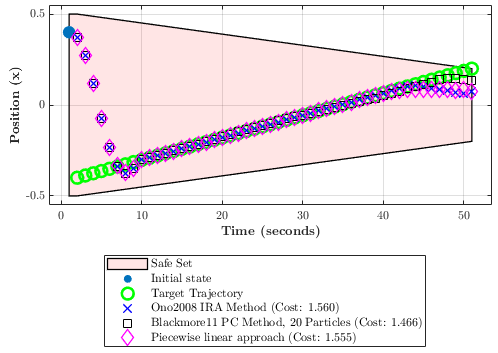
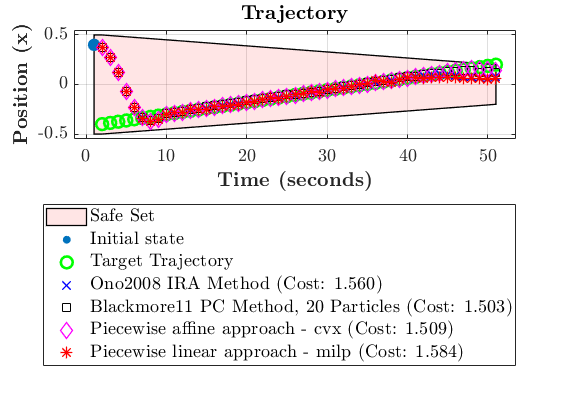
Added more figures to present.

diff --git a/Figure3.m b/Figure3.m
@@ -113,8 +113,8 @@
 
     %% Plotting trajectories of each method: 
 
-        plot_markersize = 9;
-        plot_fontSize = 9;
+        plot_markersize = 16;
+        plot_fontSize = 14;
         fig3 = figure(1);
         clf
         hold on
@@ -123,21 +123,21 @@
         h3 = scatter(x0(1),x0(2),10*plot_markersize,'go','filled');
         h4 = scatter([x0(1); ono_opt_mean_X(1:4:end)],...
                     [x0(2); ono_opt_mean_X(2:4:end)],...
-                    30, 'bx');
+                    10*plot_markersize, 'bx');
         h5 = scatter([x0(1); onopwl_opt_mean_X(1:4:end)],...
                     [x0(2); onopwl_opt_mean_X(2:4:end)],...
-                    30, 'md');
+                    10*plot_markersize, 'md');
         h6 = scatter([x0(1); blackmore_opt_mean_X(1:4:end)],...
                     [x0(2); blackmore_opt_mean_X(2:4:end)],...
-                    30, 'ks');
+                    10*plot_markersize, 'ks');
 
         
         set(groot, 'defaultAxesTickLabelInterpreter','latex'); 
         set(groot, 'defaultLegendInterpreter','latex');
         set(groot, 'defaulttextInterpreter','latex');
         
-        xlabel('\textbf{Position (y)}')
-        ylabel('\textbf{Position (x)}')
+        xlabel('\textbf{Position ($z_1$)}')
+        ylabel('\textbf{Position ($z_2$)}')
         title('\textbf{Trajectory}')
         set(gca,'FontSize',plot_fontSize)
         legend([h1 h2 h3 h4 h5 h6],{'Safe Set',...
@@ -146,13 +146,14 @@
             ono_opt_val), sprintf('Piecewise linear approach (Cost: %1.3f)',...
             onopwl_opt_val),...
             sprintf('Blackmore11 PC Method, %i Particles (Cost: %1.3f)',...
-            N,blackmore_opt_val)},'Location','SouthOutside','FontSize',9);
+            N,blackmore_opt_val)},'Location','SouthOutside','FontSize',plot_fontSize);
         box on;
-        set(fig3,'PaperUnits','centimeters');
-        set(fig3,'PaperPosition',[0 0 8.8 8.8]);
+%         set(fig3,'PaperUnits','centimeters');
+%         set(fig3,'PaperPosition',[0 0 8.8 8.8]);
+        set(gca,'FontSize',plot_fontSize)
         grid on
         axis tight
-        fig3 = tightfig(fig3);
+%         fig3 = tightfig(fig3);
         hgexport(fig3,'Figure3',hgexport('factorystyle'),'Format', 'png')
     
 

diff --git a/Figure1.m b/Figure1.m
@@ -25,7 +25,7 @@
 
         % Probability of being outside the safe set: 
 
-            Delta = 0.8;
+            Delta = 0.2;
 
         % Initial conditions:   
 
@@ -166,7 +166,7 @@
 %         set(fig1,'PaperPosition',[0 0 8.8 8.8]);
         set(gca,'FontSize',plot_fontSize)
 %         fig1 = tightfig(fig1);
-%         hgexport(fig1,'Figure1',hgexport('factorystyle'),'Format', 'png')
+        hgexport(fig1,'Figure1',hgexport('factorystyle'),'Format', 'png')
     
 
     %% Monte-Carlo simulation using SReachTools
